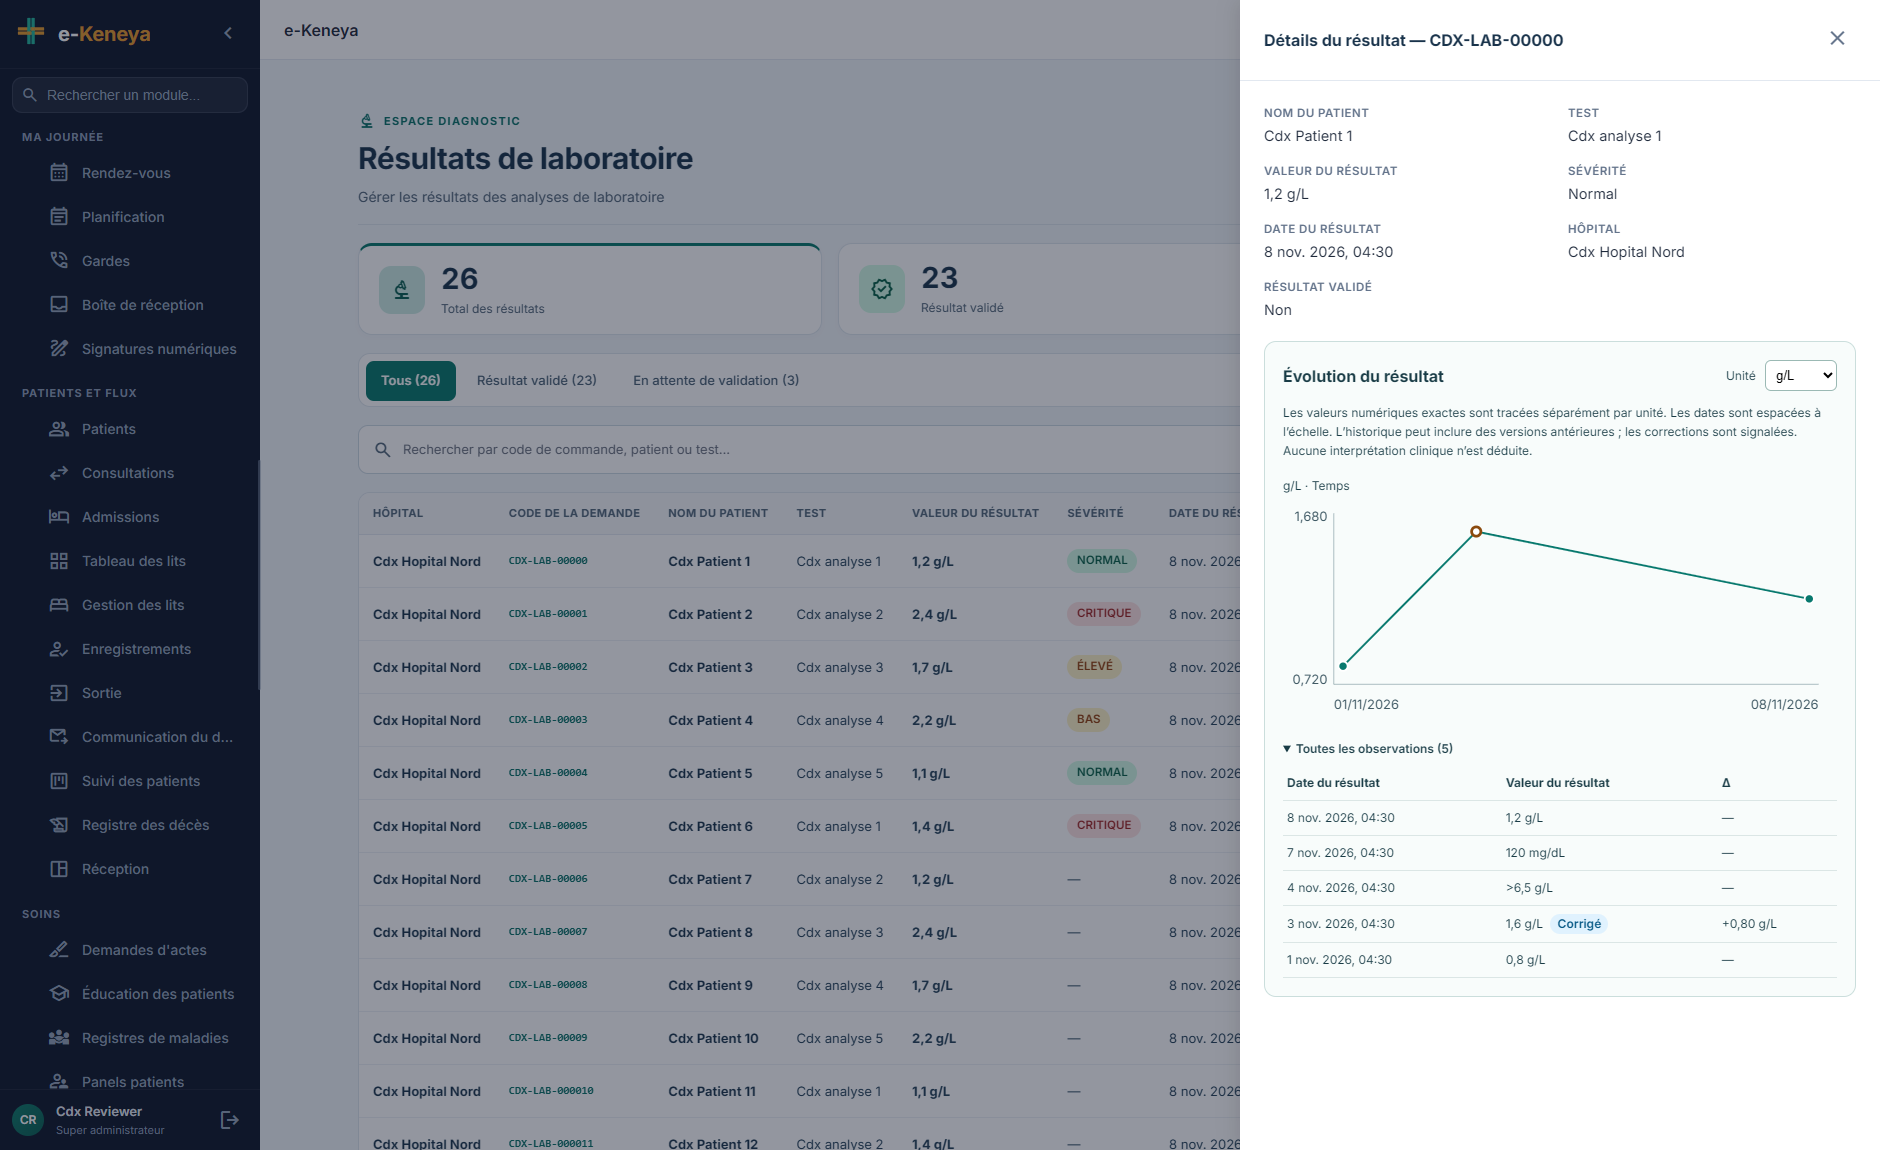
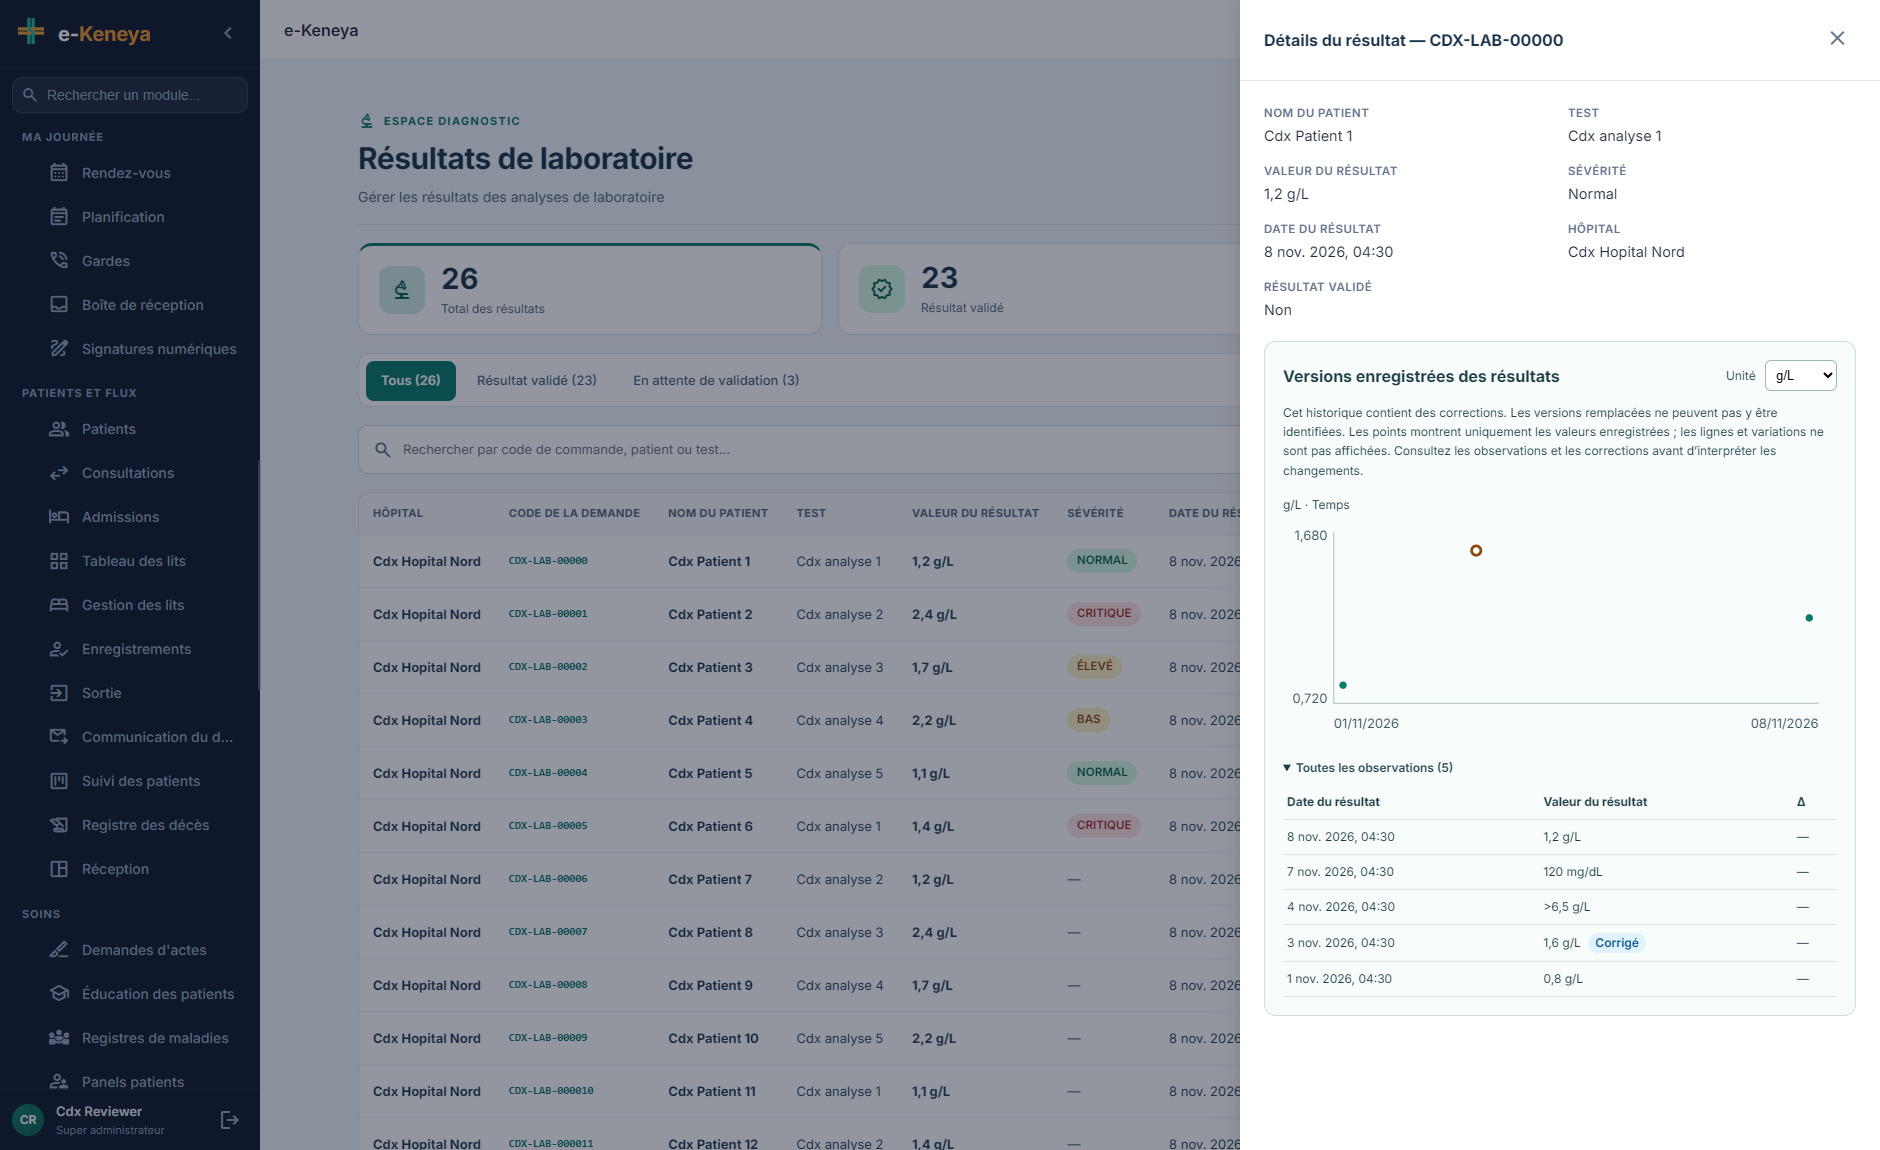
Prevent misleading correction trajectories and retain result worklist position

diff --git a/hospital-portal/src/app/lab/shared/result-evolution.component.ts b/hospital-portal/src/app/lab/shared/result-evolution.component.ts
@@ -25,7 +25,9 @@ import { serverInstant } from '../../shared/date-utils';
   template: `
     <section class="evolution" aria-labelledby="result-evolution-title">
       <div class="heading">
-        <h3 id="result-evolution-title">{{ 'LAB_EVOLUTION.TITLE' | translate }}</h3>
+        <h3 id="result-evolution-title">
+          {{ (hasCorrections() ? 'LAB_EVOLUTION.AUDIT_TITLE' : 'LAB_EVOLUTION.TITLE') | translate }}
+        </h3>
         @if (units().length > 1) {
           <label
             >{{ 'LAB_EVOLUTION.UNIT' | translate }}
@@ -42,7 +44,11 @@ import { serverInstant } from '../../shared/date-utils';
       } @else if (failed()) {
         <p role="alert">{{ 'LAB_EVOLUTION.ERROR' | translate }}</p>
       } @else {
-        <p class="hint">{{ 'LAB_EVOLUTION.NOTE' | translate }}</p>
+        <p class="hint">
+          {{
+            (hasCorrections() ? 'LAB_EVOLUTION.CORRECTION_NOTE' : 'LAB_EVOLUTION.NOTE') | translate
+          }}
+        </p>
         @if (points().length > 1) {
           <figure>
             <figcaption>{{ unit() }} · {{ 'LAB_EVOLUTION.TIME_AXIS' | translate }}</figcaption>
@@ -55,7 +61,9 @@ import { serverInstant } from '../../shared/date-utils';
               <line x1="55" y1="205" x2="580" y2="205" />
               <text x="48" y="28" text-anchor="end">{{ formatAxis(bounds().max) }}</text>
               <text x="48" y="205" text-anchor="end">{{ formatAxis(bounds().min) }}</text>
-              <polyline [attr.points]="linePoints()" />
+              @if (!hasCorrections()) {
+                <polyline [attr.points]="linePoints()" />
+              }
               @for (p of points(); track $index) {
                 <circle
                   [attr.cx]="x(p.time)"
@@ -209,7 +217,10 @@ export class ResultEvolutionComponent {
   loading = input(false);
   failed = input(false);
   resultId = input('');
-  chosenUnit = linkedSignal({ source: () => ({ id: this.resultId(), history: this.history(), unit: this.preferredUnit() }), computation: () => '' });
+  chosenUnit = linkedSignal({
+    source: () => ({ id: this.resultId(), history: this.history(), unit: this.preferredUnit() }),
+    computation: () => '',
+  });
   preferredUnit = input('');
   units = computed(() => [
     ...new Set(
@@ -226,6 +237,7 @@ export class ResultEvolutionComponent {
         : (this.units()[0] ?? ''),
   );
   points = computed(() => evolutionSeries(this.history(), this.unit()));
+  hasCorrections = computed(() => this.history().some((point) => point.corrected));
   observations = computed(() =>
     [...this.history()].sort((a, b) => {
       const left = serverInstant(a.resultDate).getTime();
@@ -236,11 +248,18 @@ export class ResultEvolutionComponent {
     }),
   );
   deltaAt(index: number): string {
+    if (this.hasCorrections()) return '—';
     const current = this.observations()[index];
     const delta = observationDelta(current, this.observations()[index + 1]);
-    return delta === null
-      ? '—'
-      : `${delta > 0 ? '+' : ''}${formatDecimal(delta, 2)} ${current.resultUnit.trim()}`;
+    if (delta === null) return '—';
+    const previous = this.observations()[index + 1];
+    const precision = Math.min(
+      20,
+      Math.max(
+        ...[current, previous].map((p) => (p.resultValue?.trim().split(/[.,]/)[1] ?? '').length),
+      ),
+    );
+    return `${delta > 0 ? '+' : ''}${formatDecimal(delta, precision)} ${current.resultUnit.trim()}`;
   }
   linePoints = computed(() =>
     this.points()

diff --git a/hospital-portal/src/app/lab/lab-results/lab-results.ts b/hospital-portal/src/app/lab/lab-results/lab-results.ts
@@ -361,6 +361,7 @@ export class LabResultsComponent implements OnInit {
   /** Re-fetch under the new scope when the chip emits. */
   onScopeChange(_hospitalId: string | null): void {
     this.closeDetail();
+    this.page.set(1);
     this.loadResults();
   }
 
@@ -636,7 +637,7 @@ export class LabResultsComponent implements OnInit {
       next: ({ rows: list }) => {
         this.results.set(list);
         this.computeStats(list);
-        this.applyFilter();
+        this.applyFilter(false);
         this.loading.set(false);
       },
       error: () => {
@@ -670,7 +671,7 @@ export class LabResultsComponent implements OnInit {
       next: (list) => {
         this.criticalList.set(list ?? []);
         this.criticalLoading.set(false);
-        this.applyFilter();
+        this.applyFilter(false);
       },
       error: () => {
         this.toast.error(this.translate.instant('LAB_RESULTS.CRITICAL_LOAD_ERROR'));
@@ -679,7 +680,7 @@ export class LabResultsComponent implements OnInit {
     });
   }
 
-  applyFilter(): void {
+  applyFilter(resetPage = true): void {
     const tab = this.activeTab();
     let list = tab === 'critical' ? this.criticalList() : this.results();
     if (tab === 'released') {
@@ -698,7 +699,7 @@ export class LabResultsComponent implements OnInit {
       );
     }
     this.filtered.set(list);
-    this.page.set(1);
+    if (resetPage) this.page.set(1);
   }
 
   viewResult(r: LabResultResponse): void {
@@ -892,7 +893,7 @@ export class LabResultsComponent implements OnInit {
           list.map((row) => (row.id === target.id ? { ...row, ...updated } : row));
         this.results.update(patch);
         this.criticalList.update((list) => list.filter((row) => row.id !== target.id));
-        this.applyFilter();
+        this.applyFilter(false);
         this.closeReadBack();
       },
       error: (err: { error?: { message?: string } }) => {
@@ -915,7 +916,7 @@ export class LabResultsComponent implements OnInit {
           list.map((row) => (row.id === r.id ? { ...row, acknowledged: true } : row));
         this.results.update(patch);
         this.criticalList.update((list) => list.filter((row) => row.id !== r.id));
-        this.applyFilter();
+        this.applyFilter(false);
       },
       error: (err: unknown) =>
         this.toast.error(

diff --git a/hospital-portal/src/app/lab/shared/result-evolution.component.spec.ts b/hospital-portal/src/app/lab/shared/result-evolution.component.spec.ts
@@ -78,7 +78,38 @@ describe('ResultEvolutionComponent', () => {
       { resultValue: '0.9', resultUnit: 'g/L', resultDate: '2026-11-01T09:00:00Z' },
     ]);
     fixture.detectChanges();
-    expect(fixture.componentInstance.deltaAt(0)).toMatch(/\+0[.,]30 g\/L/);
+    expect(fixture.componentInstance.deltaAt(0)).toMatch(/\+0[.,]3 g\/L/);
     expect(fixture.componentInstance.deltaAt(1)).toBe('—');
+  });
+
+  it('never connects correction versions or presents their differences as patient changes', () => {
+    const fixture = setup();
+    expect(fixture.nativeElement.querySelector('polyline')).toBeNull();
+    expect(fixture.nativeElement.querySelector('h3')?.textContent).toContain(
+      'LAB_EVOLUTION.AUDIT_TITLE',
+    );
+    expect(fixture.nativeElement.querySelector('.hint')?.textContent).toContain(
+      'LAB_EVOLUTION.CORRECTION_NOTE',
+    );
+    expect(fixture.componentInstance.deltaAt(0)).toBe('—');
+    expect(fixture.nativeElement.querySelectorAll('tbody tr').length).toBe(3);
+  });
+
+  it('preserves sub-centesimal changes and puts invalid dates last', () => {
+    const fixture = setup();
+    fixture.componentRef.setInput('history', [
+      { resultValue: '0.0011', resultUnit: 'g/L', resultDate: '2026-11-08T09:00:00Z' },
+      { resultValue: '9', resultUnit: 'g/L', resultDate: 'invalid' },
+      { resultValue: '0.0010', resultUnit: 'g/L', resultDate: '2026-11-01T09:00:00Z' },
+    ]);
+    fixture.detectChanges();
+    expect(fixture.componentInstance.observations().map((p) => p.resultValue)).toEqual([
+      '0.0011',
+      '0.0010',
+      '9',
+    ]);
+    expect(fixture.componentInstance.deltaAt(0)).toMatch(/\+0[.,]0001 g\/L/);
+    expect(fixture.componentInstance.deltaAt(1)).toBe('—');
+    expect(fixture.nativeElement.querySelector('polyline')).toBeTruthy();
   });
 });

diff --git a/hospital-portal/src/app/lab/lab-results/lab-results.spec.ts b/hospital-portal/src/app/lab/lab-results/lab-results.spec.ts
@@ -203,6 +203,19 @@ describe('LabResultsComponent', () => {
     expect(component.pageEnd()).toBe(11);
   });
 
+  it('keeps the current page after a result reload following an action', () => {
+    fixture.detectChanges();
+    const rows = Array.from({ length: 21 }, (_, i) => mockResult({ id: `result-${i}` }));
+    flushInit(rows);
+    component.page.set(2);
+    component.loadResults();
+    httpMock
+      .expectOne((r) => r.url === '/lab-results')
+      .flush({ data: { content: rows, totalElements: rows.length, totalPages: 1, number: 0 } });
+    expect(component.currentPage()).toBe(2);
+    expect(component.pagedResults()[0].id).toBe('result-10');
+  });
+
   it('should create the component', () => {
     expect(component).toBeTruthy();
     fixture.detectChanges();

diff --git a/docs/qa/lab-results-evolution-2026-11-08.md b/docs/qa/lab-results-evolution-2026-11-08.md
@@ -31,3 +31,13 @@ Review comments verified without a production change:
 - `apiPrefixInterceptor` uses `effectiveHospitalIdForRequest` and omits hospital headers in global view. `LabResultController` detail/list roles match through `RoleExpansion` (verified super-admin inherits doctor and lab scientist); `readLabResultById` authorizes the result before querying readable patient/test history. No permission expansion was needed.
 
 Behaviour changes: observations regain their previous newest-first order and delta column. Deltas across different units, censored values, empty observations or coincident/invalid dates display a dash rather than a misleading subtraction. Unit selection resets when another result is opened. Corrected observations gain a hollow marker. Clinical grading, release, signing and data visibility are unchanged.
+
+### Follow-up on the published watcher revision
+
+The scheduled watcher independently published `90e486059` while the interactive review was running. Its unit reset, delta restoration, hollow markers and exact free-text exceptions were integrated before the follow-up; no force push was used.
+
+The detail history DTO supplies only date/value/unit and a correction flag, not a reliable identity for the superseded original. Histories containing corrections therefore use an explicitly labelled recorded-version diagram: discrete points, no connecting line and no deltas. Audit observations and correction badges remain readable. This does not claim to reconstruct a canonical clinical trajectory from version records; canonical version filtering would require additional backend metadata.
+
+Reloads after actions retain the selected page, while user filters, tabs, page size and hospital scope still reset it. Displayed deltas retain the operands' decimal precision (up to 20 decimal places) rather than imposing two decimals. Invalid dates sort after valid observations and cannot produce a delta. Component and pager regression tests cover these paths.
+
+Final follow-up validation: `npm run test:coverage` passed 4,989 tests; `npm run test:scripts` passed 537; build, lint, formatting, i18n/RBAC/repository guards and coverage floors passed. Fourteen local screenshot/accessibility checks passed without page errors. Backend `:hospital-core:test -PtestForks=1` passed with six tasks up to date in 29 seconds; backend sources are identical to the previously verified backend revision.
